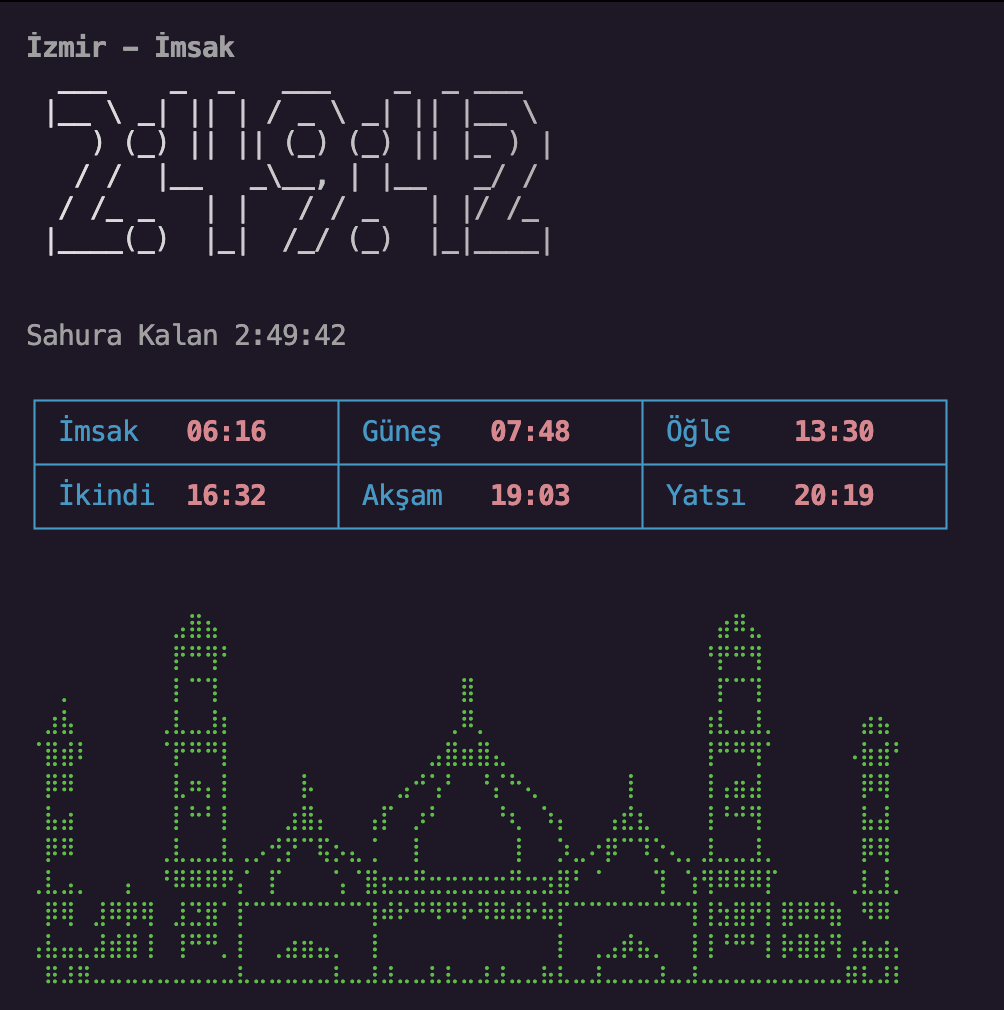
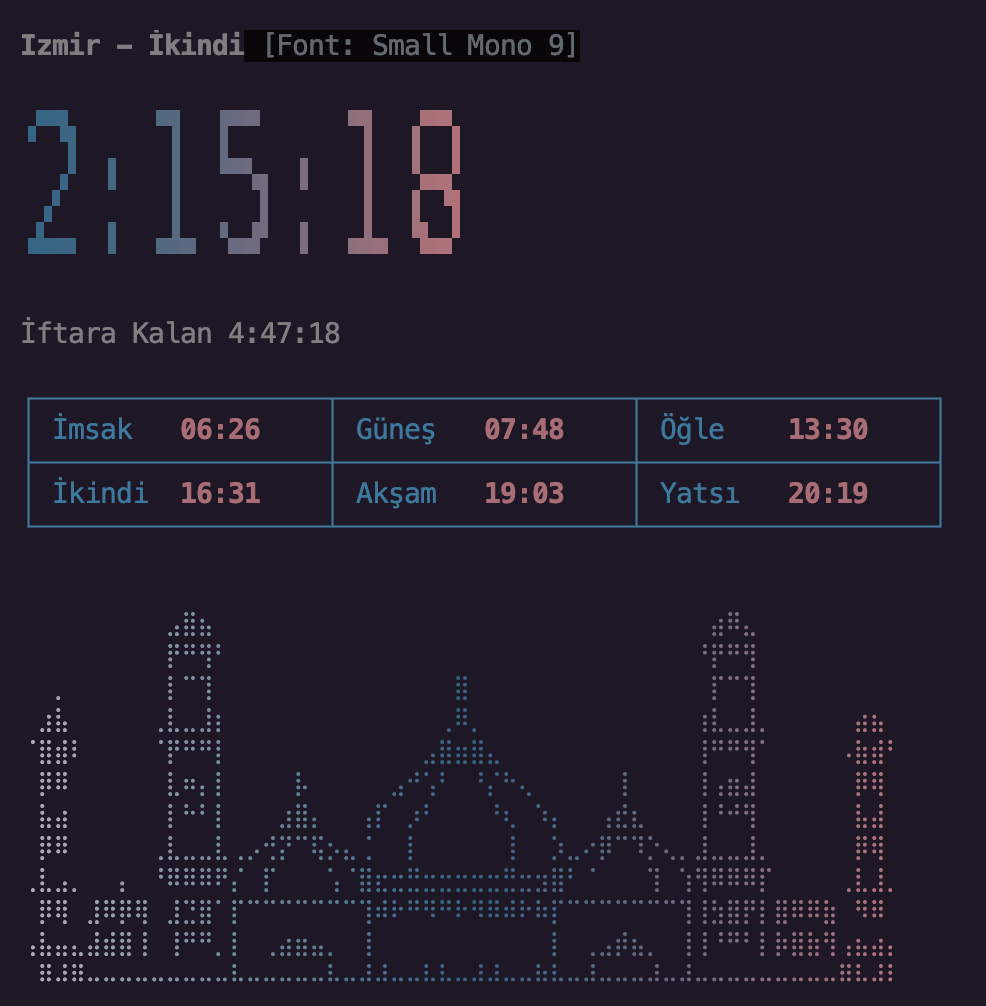
feat: add `today` command to display daily prayer times

diff --git a/index.js b/index.js
@@ -9,6 +9,14 @@ import { differenceInSeconds, parse, addDays, isAfter } from 'date-fns';
 import logUpdate from 'log-update';
 import Conf from 'conf';
 import prompts from 'prompts';
+import readline from 'readline';
+
+const FONTS = [
+    'Modular', 'Big', 'Shadow', 'Tmplr', 'Cricket', 'Graceful', 'Shimrod', 'Mono 9', 'Graffiti', 'Morse', 'Slant', 'Banner3', 'Banner4', 'Henry 3D', 'Basic', 'Small Block', 'Nancyj-Fancy', 'Small Mono 9', 'Invita'
+];
+
+let currentFontIndex = FONTS.indexOf('Big');
+if (currentFontIndex === -1) currentFontIndex = 0;
 
 const METHOD = 13; // Diyanet
 
@@ -83,6 +91,21 @@ async function setupConfig() {
 async function main() {
     const { city, country } = await setupConfig();
 
+    readline.emitKeypressEvents(process.stdin);
+    if (process.stdin.isTTY) {
+        process.stdin.setRawMode(true);
+    }
+    process.stdin.on('keypress', (str, key) => {
+        if (key.ctrl && key.name === 'c') {
+            process.exit();
+        }
+        if (str && str.toLowerCase() === 'f') {
+            currentFontIndex = (currentFontIndex + 1) % FONTS.length;
+            // Immediate re-render isn't strictly necessary as the interval runs every second,
+            // but logUpdate will refresh naturally within <= 1000ms.
+        }
+    });
+
     let data = await getPrayerTimes(city, country);
 
     setInterval(async () => {
@@ -147,9 +170,15 @@ async function main() {
 
         // Capitalize for display
         const displayCity = city.charAt(0).toUpperCase() + city.slice(1);
-        output += chalk.bold.hex('#A0A0A0')(`${displayCity} - ${nextPrayerName}`) + '\n';
+        output += chalk.bold.hex('#A0A0A0')(`${displayCity} - ${nextPrayerName}`) + chalk.dim(` [Font: ${FONTS[currentFontIndex]}]`) + '\n';
 
-        const bigTime = figlet.textSync(nextPrayerCountdownStr, { font: 'Big' });
+        let bigTimeText = '';
+        try {
+            bigTimeText = figlet.textSync(nextPrayerCountdownStr, { font: FONTS[currentFontIndex] });
+        } catch (err) {
+            bigTimeText = figlet.textSync(nextPrayerCountdownStr, { font: 'Big' }); // fallback
+        }
+        const bigTime = bigTimeText;
         output += gradient(['#1980A9', '#F38B94']).multiline(bigTime) + '\n';
 
         if (isRamadan) {
